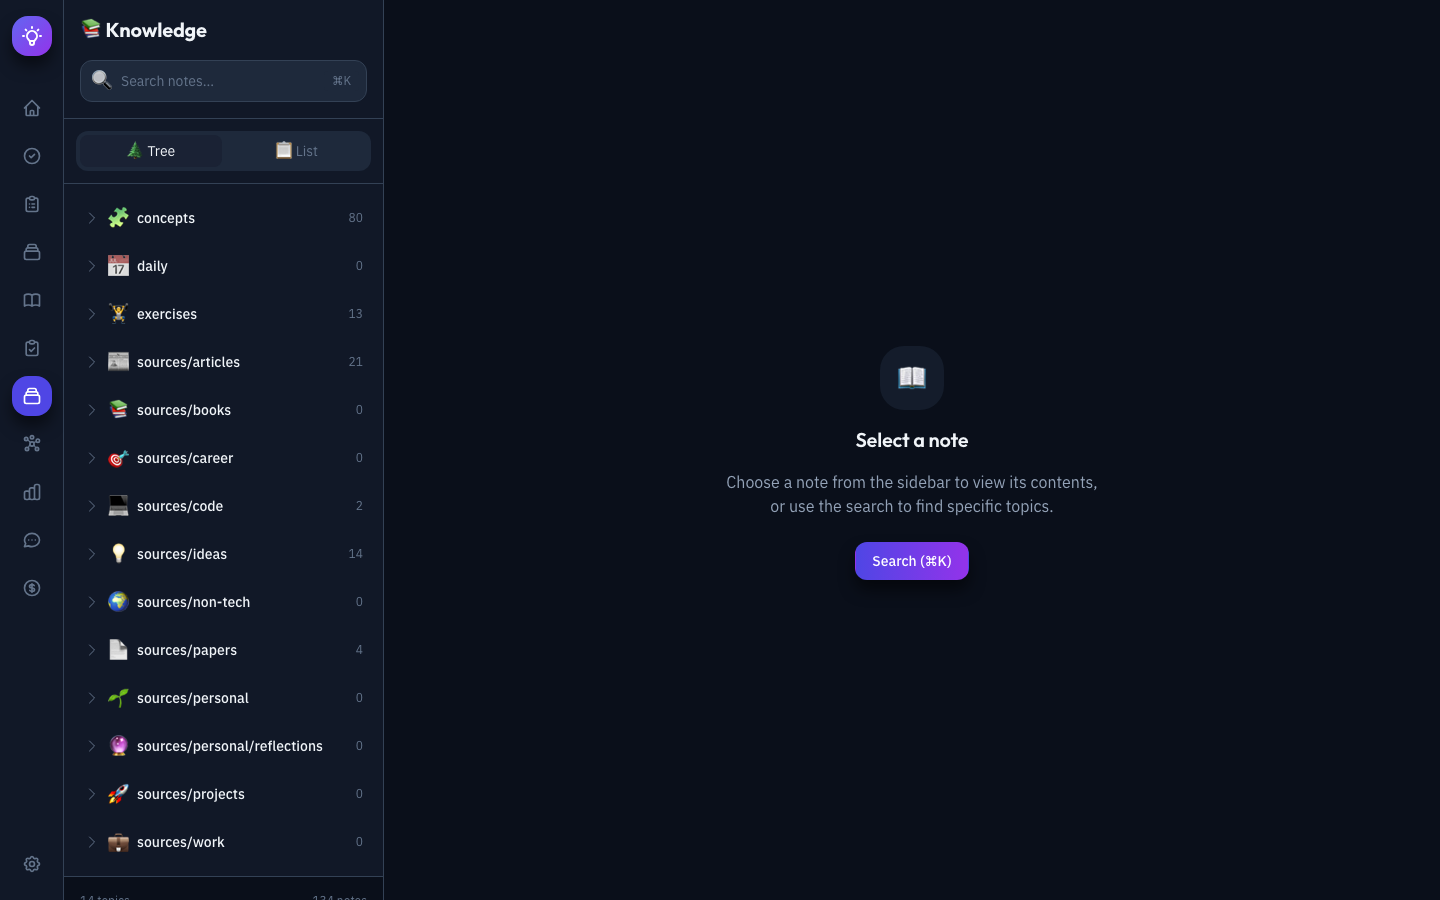
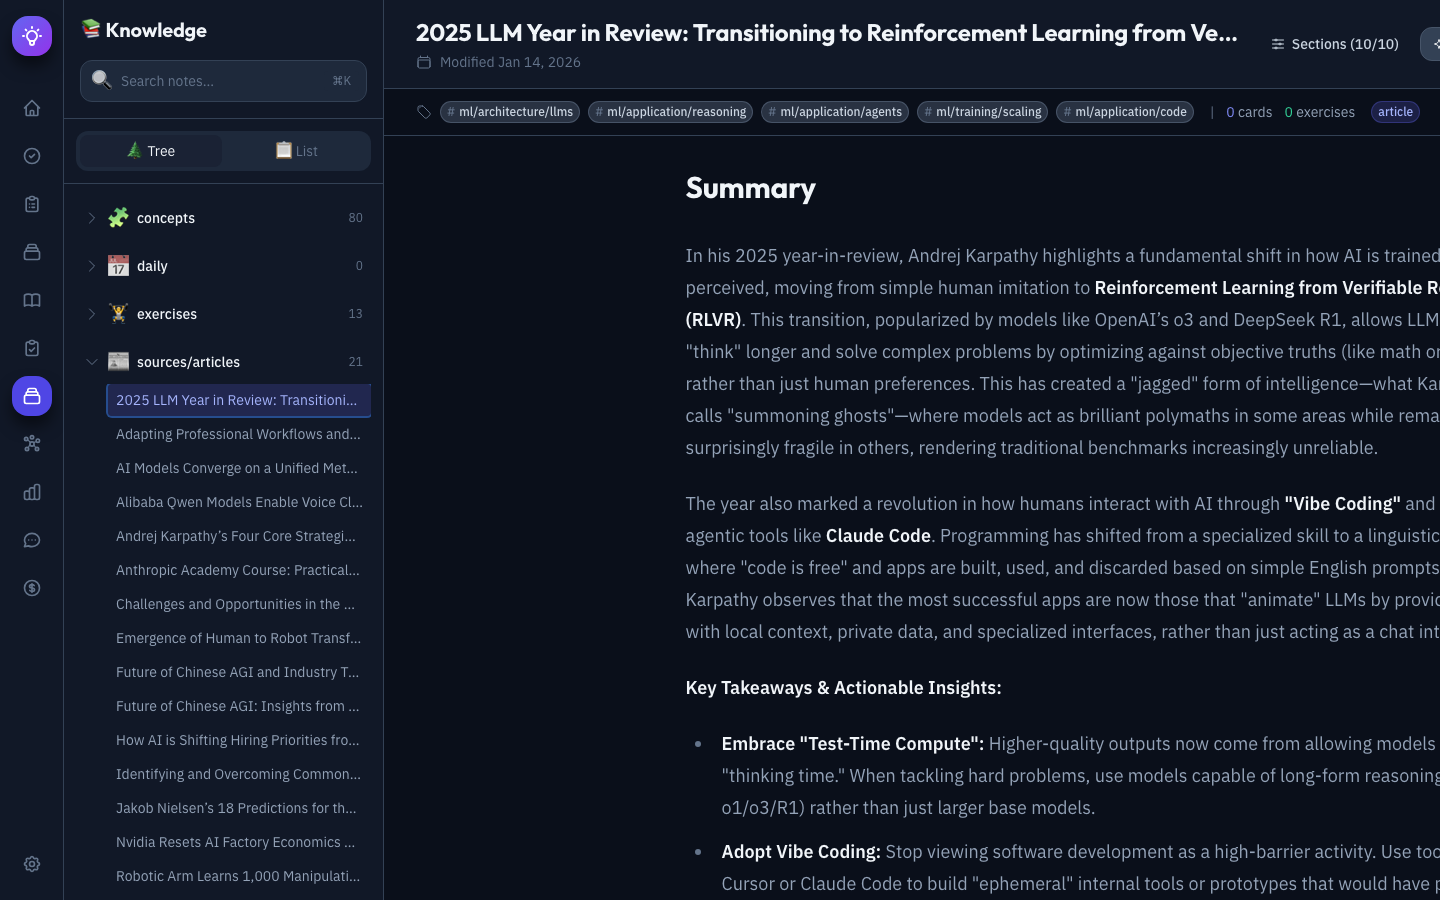
feat(e2e): add PWA screenshot tests and improve knowledge explorer screenshot
Add comprehensive e2e screenshot tests for the Mobile Capture PWA and
enhance the main frontend screenshot tests to show better content.

PWA Screenshot Tests:
- Add frontend/capture/e2e/screenshots.spec.js with tests for:
  - capture-home: Main screen with all capture type buttons
  - capture-text: Quick Note text capture form
  - capture-url: URL capture form for saving links
- Add frontend/capture/playwright.config.js configured for port 5174
- Use mobile viewport (430x932) for realistic PWA appearance

Main Frontend Screenshots:
- Enhance knowledge page test to select a note from sources/articles
  folder to demonstrate markdown rendering capabilities
- Add customAction support to screenshot test framework for page-specific
  interactions before capturing
- Update knowledge.png screenshot showing article with rendered markdown

Documentation:
- Add Screenshots section to Mobile Capture (PWA) in README
- Display all three PWA screenshots side by side with captions

diff --git a/frontend/capture/e2e/screenshots.spec.js b/frontend/capture/e2e/screenshots.spec.js
@@ -1,0 +1,110 @@
+/**
+ * PWA Capture App Screenshot Generator
+ * 
+ * Takes screenshots of the Mobile Capture PWA application.
+ * Run with: npx playwright test --config=capture/playwright.config.js
+ * 
+ * Screenshots are saved to: docs/screenshots/
+ */
+
+import { test, expect } from '@playwright/test'
+import path from 'path'
+import { fileURLToPath } from 'url'
+
+const __filename = fileURLToPath(import.meta.url)
+const __dirname = path.dirname(__filename)
+const screenshotDir = path.join(__dirname, '../../..', 'docs', 'screenshots')
+
+// PWA page configurations
+const pages = [
+  {
+    name: 'capture-home',
+    path: '/capture/',
+    title: 'Capture Home',
+    waitFor: '.capture-container',
+    waitTime: 1000,
+    description: 'Main capture screen with all capture type buttons',
+  },
+  {
+    name: 'capture-text',
+    path: '/capture/',
+    title: 'Text Capture',
+    waitFor: '.capture-container',
+    waitTime: 1000,
+    description: 'Text/Note capture form',
+    // Click on the Note button to open the text capture form
+    customAction: async (page) => {
+      // Find and click the Note capture button
+      const noteButton = page.locator('button:has-text("Note")').or(
+        page.locator('.capture-button:has-text("Note")')
+      )
+      await noteButton.click()
+      await page.waitForTimeout(500)
+    },
+  },
+  {
+    name: 'capture-url',
+    path: '/capture/',
+    title: 'URL Capture',
+    waitFor: '.capture-container',
+    waitTime: 1000,
+    description: 'URL capture form for saving web links',
+    // Click on the URL button to open the URL capture form
+    customAction: async (page) => {
+      // Find and click the URL capture button
+      const urlButton = page.locator('button:has-text("URL")').or(
+        page.locator('.capture-button:has-text("URL")')
+      )
+      await urlButton.click()
+      await page.waitForTimeout(500)
+    },
+  },
+]
+
+test.describe('PWA Capture Screenshot Generator', () => {
+  test.describe.configure({ mode: 'serial' })
+
+  for (const pageConfig of pages) {
+    test(`should capture ${pageConfig.title} screenshot`, async ({ page }) => {
+      // Set viewport to simulate mobile device in browser
+      // Using a wider viewport since this is for browser display, not actual mobile
+      await page.setViewportSize({ width: 430, height: 932 }) // iPhone 14 Pro Max size
+      
+      // Navigate to page
+      await page.goto(pageConfig.path)
+      
+      // Wait for the main content to load
+      if (pageConfig.waitFor) {
+        await page.waitForSelector(pageConfig.waitFor, { state: 'visible', timeout: 10000 })
+      }
+      
+      // Wait for animations and data to load
+      await page.waitForTimeout(pageConfig.waitTime)
+      
+      // Execute custom action if defined (e.g., clicking a button to open a form)
+      if (pageConfig.customAction) {
+        await pageConfig.customAction(page)
+      }
+      
+      // Wait for any loading indicators to disappear
+      await page.waitForFunction(() => {
+        const loaders = document.querySelectorAll('[data-testid="loading"], .animate-pulse, [role="status"]')
+        return loaders.length === 0 || Array.from(loaders).every(el => el.offsetParent === null)
+      }, { timeout: 10000 }).catch(() => {
+        // Ignore timeout - page might not have loading indicators
+      })
+      
+      // Additional wait for stability
+      await page.waitForTimeout(500)
+      
+      // Take screenshot
+      const screenshotPath = path.join(screenshotDir, `${pageConfig.name}.png`)
+      await page.screenshot({
+        path: screenshotPath,
+        fullPage: false,
+      })
+      
+      console.log(`✅ Captured: ${pageConfig.title} -> ${screenshotPath}`)
+    })
+  }
+})

diff --git a/frontend/e2e/screenshots.spec.js b/frontend/e2e/screenshots.spec.js
@@ -58,6 +58,59 @@ const pages = [
     title: 'Knowledge Explorer',
     waitFor: 'main',
     waitTime: 1500,
+    // Custom action to select a note from sources/articles to show markdown rendering
+    customAction: async (page) => {
+      // Wait for folders to load
+      await page.waitForTimeout(1000)
+      
+      // Try to find and expand sources/articles folder specifically
+      // Folder buttons have aria-label like "{folder} folder, {count} notes, expand/collapse"
+      const folderButtons = page.locator('button[aria-label*="folder"]')
+      const folderCount = await folderButtons.count()
+      
+      // Priority list of folders to try (sources/articles preferred)
+      const preferredFolders = ['sources/articles', 'sources/papers', 'sources/books', 'sources']
+      let folderFound = false
+      
+      for (const targetFolder of preferredFolders) {
+        if (folderFound) break
+        
+        for (let i = 0; i < folderCount; i++) {
+          const folder = folderButtons.nth(i)
+          const ariaLabel = await folder.getAttribute('aria-label')
+          
+          if (ariaLabel && ariaLabel.toLowerCase().includes(targetFolder)) {
+            const isExpanded = await folder.getAttribute('aria-expanded')
+            if (isExpanded !== 'true') {
+              await folder.click()
+              await page.waitForTimeout(500)
+            }
+            folderFound = true
+            break
+          }
+        }
+      }
+      
+      // If no preferred folder found, just expand the first folder
+      if (!folderFound && folderCount > 0) {
+        const firstFolder = folderButtons.first()
+        const isExpanded = await firstFolder.getAttribute('aria-expanded')
+        if (isExpanded !== 'true') {
+          await firstFolder.click()
+          await page.waitForTimeout(500)
+        }
+      }
+      
+      // Look for a note button inside the expanded folder
+      const noteButtons = page.locator('div[role="group"] button')
+      const noteCount = await noteButtons.count()
+      
+      if (noteCount > 0) {
+        // Click the first note to show its content
+        await noteButtons.first().click()
+        await page.waitForTimeout(1500) // Wait for note content to load and render
+      }
+    },
   },
   {
     name: 'graph',
@@ -129,6 +182,11 @@ test.describe('Screenshot Generator', () => {
       }, { timeout: 15000 }).catch(() => {
         // Ignore timeout - page might not have loading indicators
       })
+      
+      // Execute custom action if defined (e.g., selecting a note)
+      if (page.customAction) {
+        await page.customAction(browserPage)
+      }
       
       // Additional wait for stability
       await browserPage.waitForTimeout(500)

diff --git a/frontend/capture/playwright.config.js b/frontend/capture/playwright.config.js
@@ -1,0 +1,72 @@
+/**
+ * Playwright Configuration for PWA Capture App
+ * 
+ * E2E tests for the Mobile Capture PWA.
+ * Run with: npm run test:e2e:capture (from frontend directory)
+ * Or directly: npx playwright test --config=capture/playwright.config.js
+ */
+
+import { defineConfig, devices } from '@playwright/test'
+
+export default defineConfig({
+  // Test directory
+  testDir: './e2e',
+  
+  // Test file pattern
+  testMatch: '**/*.spec.js',
+  
+  // Run tests in serial mode for screenshots
+  fullyParallel: false,
+  
+  // Fail the build on CI if you accidentally left test.only in the source code
+  forbidOnly: !!process.env.CI,
+  
+  // Retry on CI only
+  retries: process.env.CI ? 2 : 0,
+  
+  // Single worker for consistent screenshots
+  workers: 1,
+  
+  // Reporter
+  reporter: [
+    ['html', { open: 'never' }],
+    ['list'],
+  ],
+  
+  // Shared settings for all projects
+  use: {
+    // Base URL for the PWA capture app (port 5174)
+    baseURL: 'http://localhost:5174',
+    
+    // Collect trace when retrying the failed test
+    trace: 'on-first-retry',
+    
+    // Screenshot on failure
+    screenshot: 'only-on-failure',
+    
+    // Video on failure
+    video: 'retain-on-failure',
+  },
+
+  // Configure projects for major browsers
+  projects: [
+    {
+      name: 'chromium',
+      use: { ...devices['Desktop Chrome'] },
+    },
+    // Mobile viewport for realistic PWA screenshots
+    {
+      name: 'mobile-chrome',
+      use: { ...devices['Pixel 5'] },
+    },
+  ],
+
+  // Reuse existing dev server (capture app should already be running)
+  webServer: {
+    command: 'npm run dev',
+    url: 'http://localhost:5174/capture/',
+    reuseExistingServer: true,
+    timeout: 120 * 1000,
+    cwd: '.',
+  },
+})

diff --git a/README.md b/README.md
@@ -699,6 +699,18 @@ The PWA runs as a separate lightweight frontend (`localhost:5174`) and communica
 
 See [08_mobile_capture.md](docs/design_docs/08_mobile_capture.md) for full design details.
 
+### Screenshots
+
+<p align="center">
+  <img src="docs/screenshots/capture-home.png" alt="Capture Home" width="250" />
+  &nbsp;&nbsp;&nbsp;
+  <img src="docs/screenshots/capture-text.png" alt="Text Capture" width="250" />
+  &nbsp;&nbsp;&nbsp;
+  <img src="docs/screenshots/capture-url.png" alt="URL Capture" width="250" />
+</p>
+
+*Left to right: Main capture screen with all capture types, Quick Note text capture, URL capture for saving links*
+
 ---
 
 ## 🚀 Getting Started
